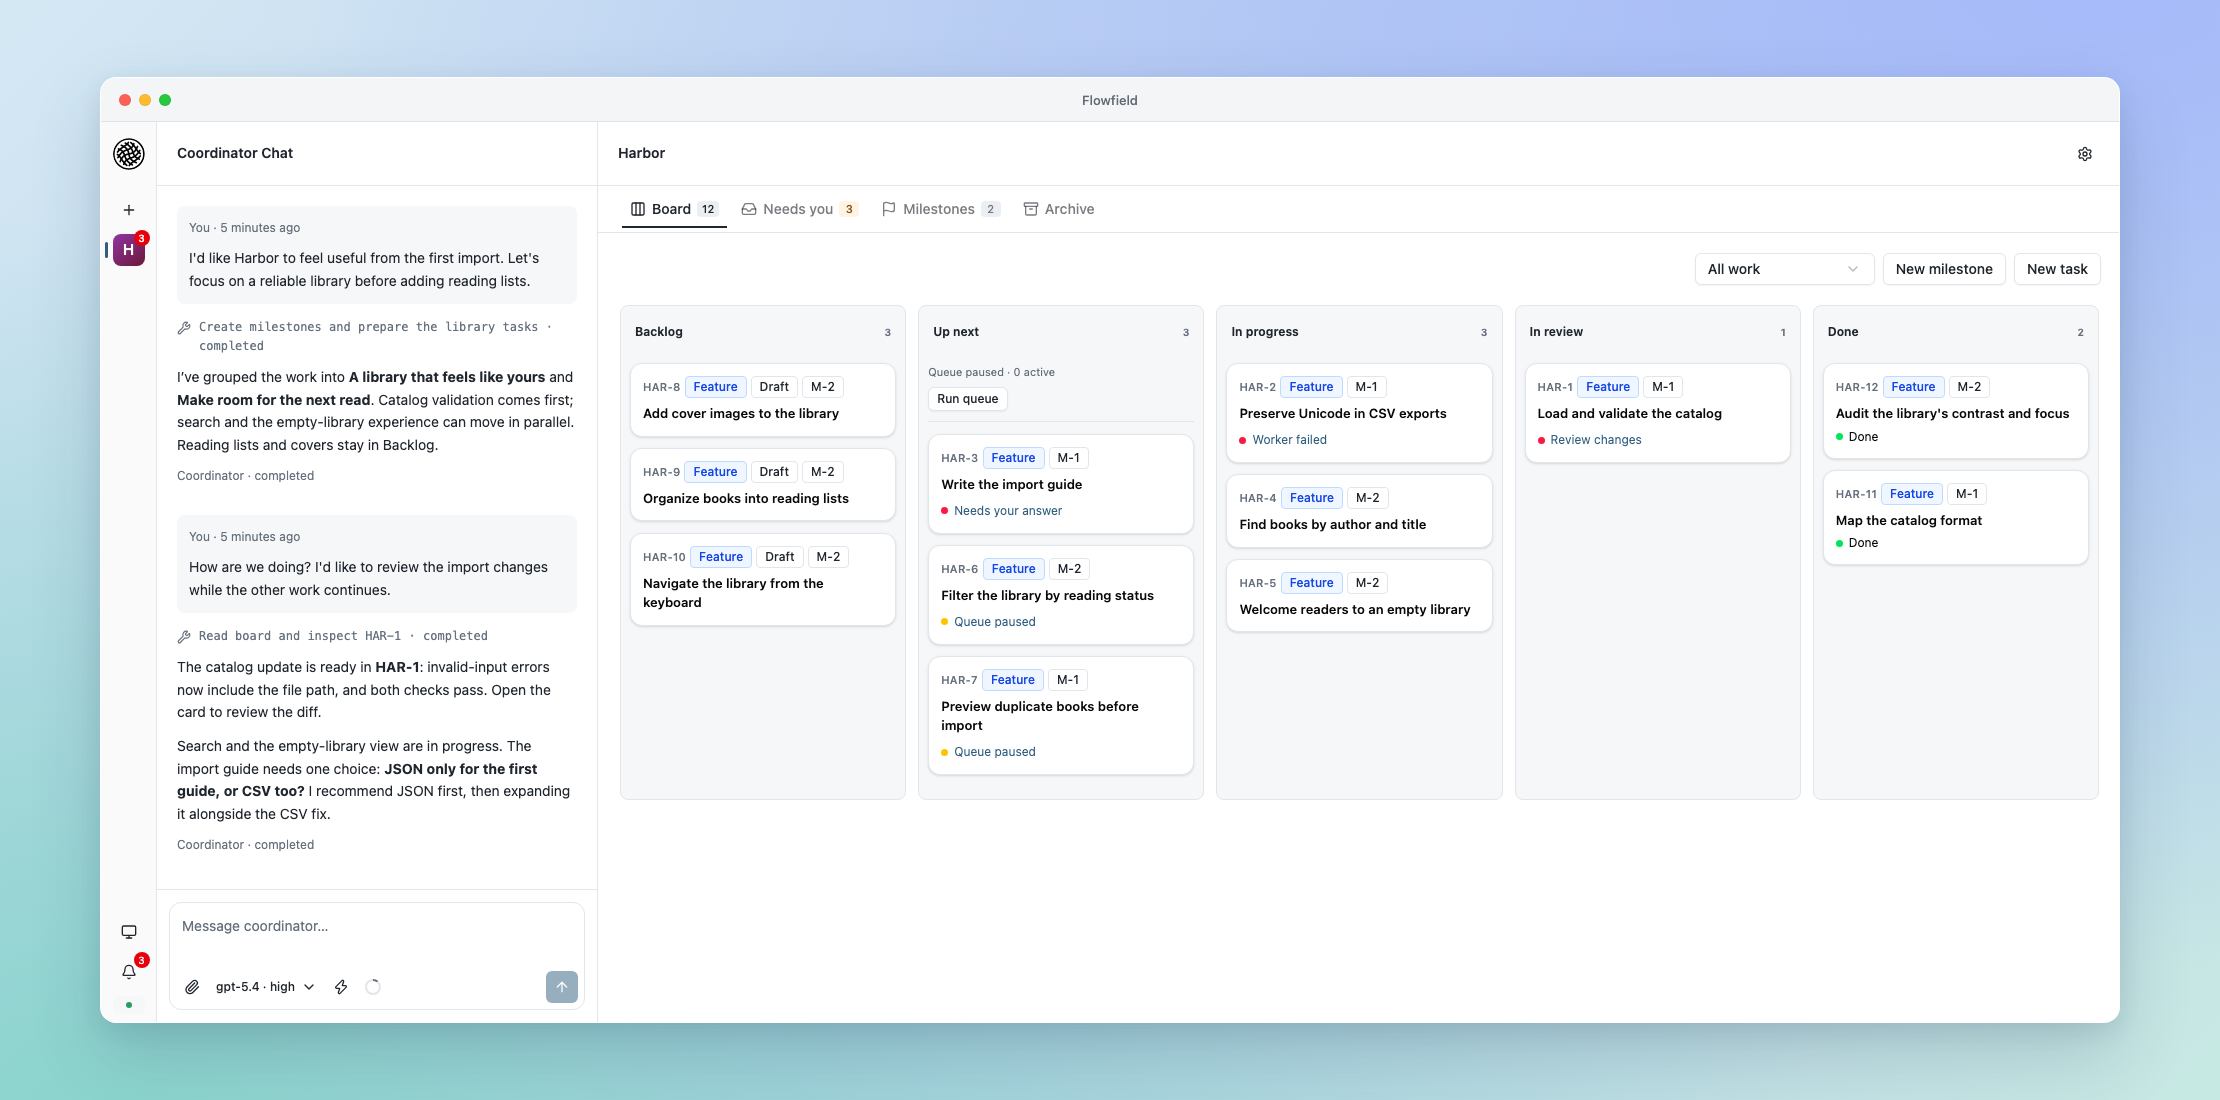
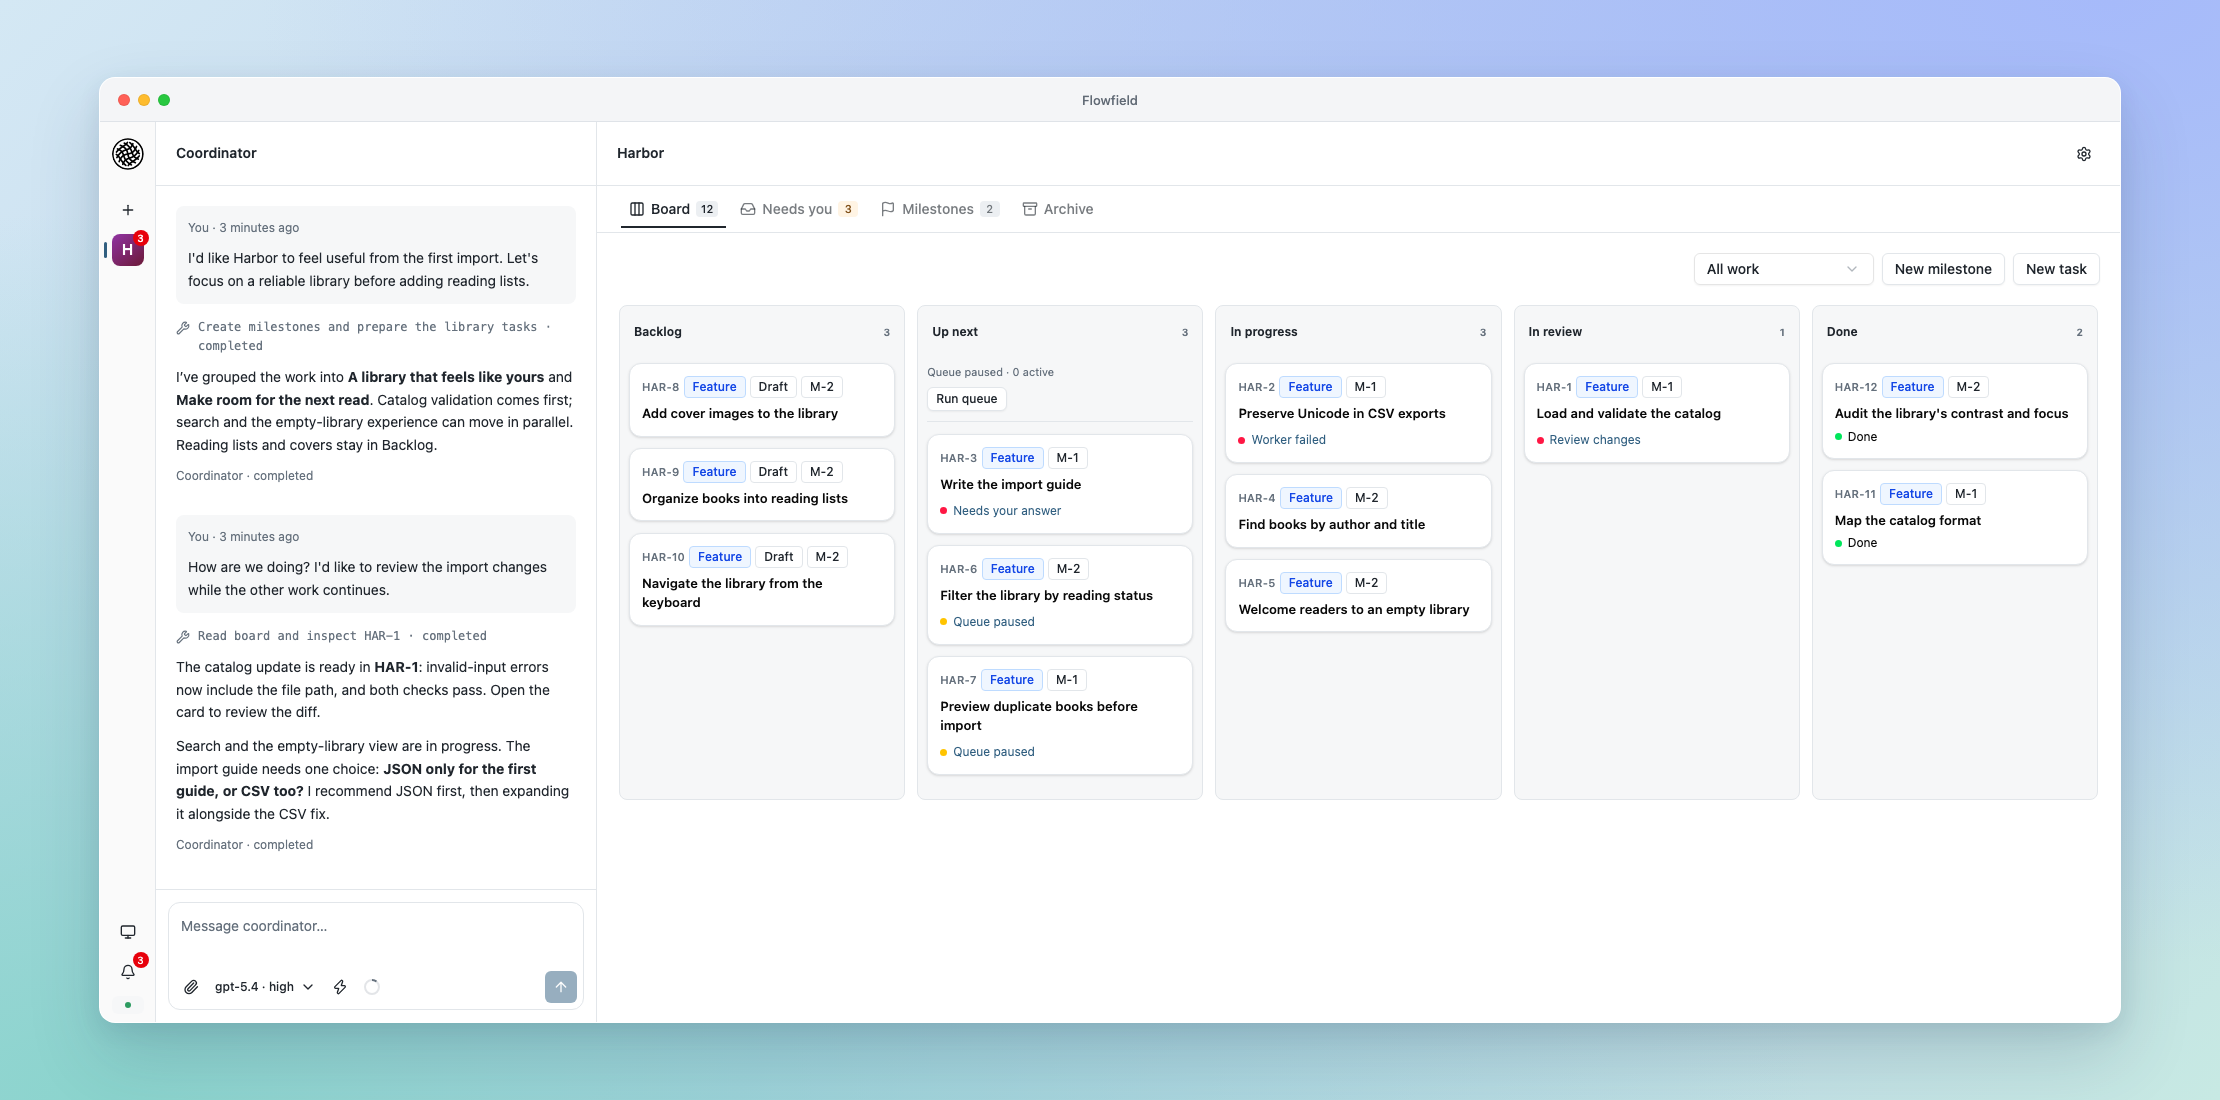
Clarify collaborative workflow and Coordinator naming

diff --git a/web/src/SetupInstructions.tsx b/web/src/SetupInstructions.tsx
@@ -28,7 +28,7 @@ export function SetupInstructions({
       <ContentStack space="section">
         <h1>Set up your project</h1>
         <p>
-          Choose an existing project to plan work in Coordinator Chat and follow
+          Choose an existing project to plan work in the Coordinator and follow
           it on the board.
         </p>
         <form
@@ -166,7 +166,7 @@ export function SetupInstructions({
         </p>
         <DetailSection title="Start planning">
           <p>
-            Choose a model in Coordinator Chat. Flowfield uses this machine’s
+            Choose a model in the Coordinator. Flowfield uses this machine’s
             installed, signed-in Codex and managed ACP runtime.
           </p>
           <p>
@@ -198,7 +198,7 @@ export function SetupInstructions({
           </pre>
           <p>
             Review the added guidance and start a fresh Codex session in the
-            project. Built-in Coordinator Chat supplies its own MCP connection.
+            project. The Coordinator supplies its own MCP connection.
           </p>
         </Disclosure>
       </ContentStack>

diff --git a/web/e2e/project-onboarding.spec.ts b/web/e2e/project-onboarding.spec.ts
@@ -16,9 +16,9 @@ test("directory adoption keeps cancellation harmless and opens project chat", as
     return route.fulfill({ json: { path } });
   });
   await page.goto("/");
-  await expect(
-    page.getByRole("heading", { name: "Coordinator Chat" }),
-  ).toHaveCount(0);
+  await expect(page.getByRole("heading", { name: "Coordinator" })).toHaveCount(
+    0,
+  );
   await page
     .getByRole("button", { name: "Choose directory", exact: true })
     .click();
@@ -43,7 +43,7 @@ test("directory adoption keeps cancellation harmless and opens project chat", as
   await setup.getByRole("button", { name: "Add project", exact: true }).click();
   await expect(page).toHaveURL("/projects/native-directory-project");
   await expect(
-    page.getByRole("heading", { name: "Coordinator Chat" }),
+    page.getByRole("heading", { name: "Coordinator" }),
   ).toBeVisible();
   expect(existsSync(join(directory, ".flowfield/config.toml"))).toBe(true);
 

diff --git a/web/e2e/coordinator.spec.ts b/web/e2e/coordinator.spec.ts
@@ -255,7 +255,7 @@ test("coordinator streams, stops, retains history and drafts beside responsive w
   );
   await page.goto("/projects/chat-browser");
   await expect(
-    page.getByRole("heading", { name: "Coordinator Chat" }),
+    page.getByRole("heading", { name: "Coordinator" }),
   ).toBeVisible();
   await expect(
     page.getByRole("link", { name: /CHT-1.*Plan the chat experience/ }),

diff --git a/web/src/CoordinatorChat.tsx b/web/src/CoordinatorChat.tsx
@@ -301,7 +301,7 @@ export function CoordinatorChat({
   return (
     <>
       <header className="workspace-pane-header">
-        <h2>Coordinator Chat</h2>
+        <h2>Coordinator</h2>
       </header>
       <div
         ref={setPane}

diff --git a/README.md b/README.md
@@ -1,6 +1,6 @@
 <h1 align="center">Flowfield</h1>
 
-<p align="center"><strong>A workspace for you and your coding agents.</strong></p>
+<p align="center"><strong>Shape software together.</strong></p>
 
 <p align="center">
   <a href="https://pypi.org/project/flowfield-core/"><img src="https://img.shields.io/pypi/v/flowfield-core?logo=pypi&amp;logoColor=white&amp;color=2563eb" alt="PyPI version"></a>
@@ -10,29 +10,17 @@
 
 ![Flowfield board with priorities, questions and results ready for review](https://raw.githubusercontent.com/flowfield-sh/flowfield-core/main/docs/images/board-overview.png)
 
-**Plan in a conversation. Build in parallel. Review in one place.**
+**Good software takes shape through collaboration.**
 
-Flowfield puts Coordinator Chat beside a visual task board. Turn an idea into a plan,
-prioritize cards, and let workers take on independent tasks while you keep planning.
-Open a card to discuss it with the coordinator and follow its work from definition to review.
+Requirements, design and implementation develop together. Flowfield gives you and the
+Coordinator a visual task board to shape the work while agents build in parallel. As
+results arrive, refine the plan, resolve questions and decide what happens next.
+Dependencies, checks and explicit code approval give that collaboration a dependable structure.
 
-- **Coordinator Chat.** Turn ideas into milestones and tasks, adjust scope, and keep planning while workers build.
+- **Coordinator.** Turn ideas into milestones and tasks, adjust scope, and keep planning while workers build.
 - **Task board and feeds.** See what’s queued, running or ready for review. Each card keeps its definition, progress, questions and results together.
 - **Parallel work.** Independent tasks run in separate checkouts; dependencies hold work until it's ready.
 - **Explicit review.** Review an exact result, request changes when needed, and approve delivery to your project.
-
-## From idea to reviewed code
-
-Start with a concrete request:
-
-> Help me add CSV export. Review the existing code, suggest a first task, and identify what we need to decide before implementing it.
-
-Shape the task with the coordinator, move it to **Up next**, and run the queue. Follow
-progress and answer questions in its feed. When a result is ready, inspect the diff, try
-it locally, and approve it or request changes—all beside the same conversation.
-
-Independent tasks can run together. Dependencies keep follow-up work waiting for the
-code it needs, and **Needs you** brings questions and reviews back to you.
 
 ## Install
 
@@ -54,7 +42,7 @@ Choose **Add project** in the sidebar and select an existing directory, or regis
 flowfield project init
 ```
 
-Start planning in [Coordinator Chat](https://docs.flowfield.sh/coordinator), or connect a
+Start planning in the [Coordinator](https://docs.flowfield.sh/coordinator), or connect a
 [standalone coding agent](https://docs.flowfield.sh/integrations/codex#connect-a-standalone-coordinator).
 Built-in chat and workers use your Codex login through the managed ACP runtime.
 Codex is the first supported harness; further integrations are planned.

diff --git a/CHANGELOG.md b/CHANGELOG.md
@@ -22,7 +22,7 @@ Initial Flowfield release: a shared task feed and workspace for agent software d
   compatible PyPI releases on web startup, hourly or manually, with release links and
   uv/pip upgrade instructions.
 
-Install with `uv tool install --python 3.12 flowfield-core`, or pip in a dedicated Python
+Install with `uv tool install flowfield-core`, or pip in a dedicated Python
 environment. The package bundles its browser UI and agent guidance. macOS and Linux with
 Python 3.12 are the release test targets; managed work requires an installed, signed-in
 Codex CLI. Additional harnesses are planned.
